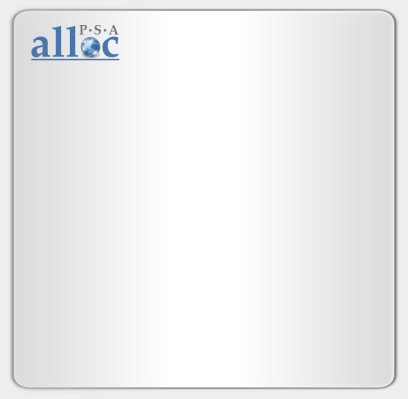
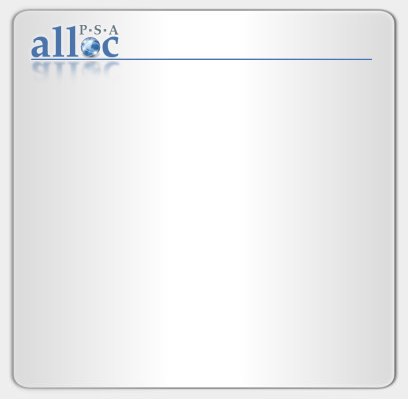
[alloc @ alla@cyber.com.au-20070503075539-maesvqodo5a6k8s4] Updated login look again.

Changed region(s): [[0.2941, 0.1203, 0.9118, 0.1504], [0.0588, 0.1504, 0.2941, 0.1805]]

diff --git a/stylesheets/login.css b/stylesheets/login.css
@@ -29,14 +29,19 @@ table.login td.left {
   letter-spacing: 0.00em;
 }
 table.login td.center { 
-  color:#333333; 
+  color:#999999; 
   text-align:center; 
   font-size:10px; 
 }
 table.login td.center a { 
-  color:#333333; 
+  color:#999999; 
   font-size:10px; 
 }
+table.login td.center a:hover {
+  color:#666666;
+  font-size:10px;
+}
+
 
 form { 
   display:inline;
@@ -86,12 +91,12 @@ p.error {
     background-position: top left;
     margin: 0;
     border: 0;
-    padding: 35px 0 15px 40px;
+    padding: 50px 0 15px 40px;
     height: 35px !important; height:40px;
 }
 .cssbox_body {
     background-position: bottom left;
     margin-right: 25px;
-    padding: 15px 0 15px 40px;
+    padding: 0px 0px 15px 40px;
 }
 
